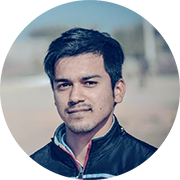
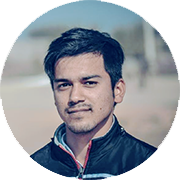
changing body color

diff --git a/index.html b/index.html
@@ -7,7 +7,7 @@
     <link rel="stylesheet" href="css/styles.css">
   </head>
 
-  <body>
+  <body style="background-color: #EAF6F6">
     <table cellspacing="20">
       <tr>
         <td><img src="images/pankaj.png" alt="pankaj's profile picture"></td>
